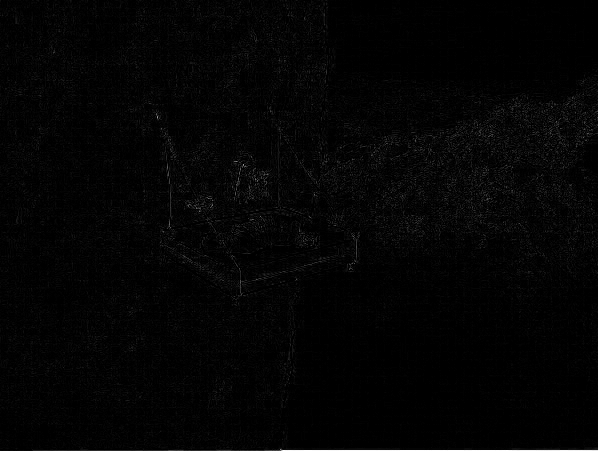
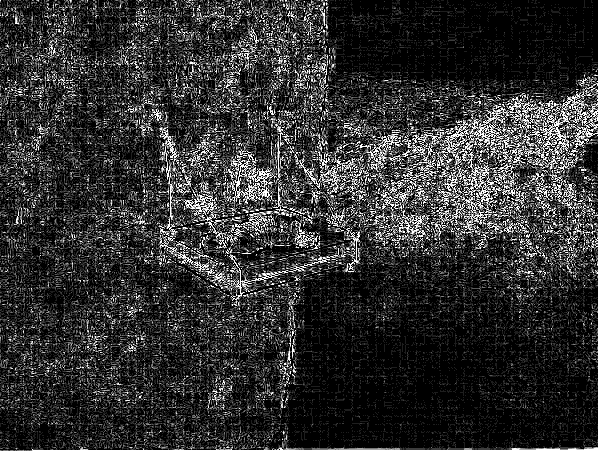
Minor changes to LME method and new ways to estimate the kernel parameters

diff --git a/detection_tools.py b/detection_tools.py
@@ -15,8 +15,10 @@ import imageio
 from numpy.lib.stride_tricks import as_strided
 from scipy.signal import savgol_filter
 from scipy.optimize import curve_fit
-from scipy.special import gamma
+from scipy.special import gamma, digamma, polygamma
 from sklearn.discriminant_analysis import LinearDiscriminantAnalysis
+from scipy.optimize import newton, minimize_scalar
+from scipy.stats import gennorm
 
 def ela_substract(image_path, quality):
     """
@@ -151,30 +153,6 @@ def _get_block_at_pos(gray_image, pos, size):
     right = j + size // 2 + 1
     return gray_image[bottom:top, left:right]
 
-def lme_transform(gray_image, block_size, window_size):
-    """ Perform PCA to get the local minimum eigenvalue at each pixel
-    using the method described by Zhan et al. (2016).
-    """
-    M, N = gray_image.shape
-    offset = (block_size  - 1) // 2   #block size has to be an odd integer
-    lme_array = np.zeros_like(gray_image).astype(np.float64)
-
-    # I couldn't think of a way to avoid traversing the whole image with for
-    # loops. This is likely to be the main bottleneck of the implementation.
-    for i in range(offset, M - offset):
-        for j in range(offset, N - offset):
-            block = _get_block_at_pos(gray_image, (i, j), block_size)
-            sss = _create_sss_matrix(block, window_size)
-            var = _covariance_matrix(sss)
-            lme_array[i][j] = _get_minimum_eigenvalue(var)
-
-
-    return lme_array
-
-# =============================================================================
-# Blur type inconsistency detection (Bahrami et al. 2015)
-# =============================================================================
-
 def _partition_input(gray_image, block_size, d):
     """ Divide input image in LxL blocks with d overlapping pixels.
     Return: an array view of all blocks.
@@ -185,6 +163,48 @@ def _partition_input(gray_image, block_size, d):
     strides = tuple(np.array(gray_image.strides) * offset) + gray_image.strides
     return as_strided(gray_image, vshape, strides)
 
+def lme_transform(gray_image, block_size, window_size):
+    """ Perform PCA to get the local minimum eigenvalue at each pixel
+    using the method described by Zhan et al. (2016).
+    """
+#    M, N = gray_image.shape
+#    offset = (block_size  - 1) // 2   #block size has to be an odd integer
+#    lme_array = np.zeros_like(gray_image).astype(np.float64)
+
+    # I couldn't think of a way to avoid traversing the whole image with for
+    # loops. This is likely to be the main bottleneck of the implementation.
+#    for i in range(offset, M - offset):
+#        for j in range(offset, N - offset):
+#            block = _get_block_at_pos(gray_image, (i, j), block_size)
+#            sss = _create_sss_matrix(block, window_size)
+#            var = _covariance_matrix(sss)
+#            lme_array[i][j] = _get_minimum_eigenvalue(var)
+
+    lme_array = np.zeros_like(gray_image).astype(np.float64)
+    M, N = gray_image.shape
+    vshape= (M, N, block_size, block_size)
+    strides = gray_image.strides * 2
+    view = as_strided(gray_image, vshape, strides)
+    for i in range(M):
+        for j in range(N):
+            sss = _create_sss_matrix(view[i,j], window_size)
+            var = _covariance_matrix(sss)
+            lme_array[i,j] = _get_minimum_eigenvalue(var)
+#    view = _partition_input(gray_image, block_size, 1)
+#    for i in range(view.shape[0]):
+#        for j in range(view.shape[1]):
+#            sss = _create_sss_matrix(view[i,j], window_size)
+#            var = _covariance_matrix(sss)
+#            view[i,j][:,:]= _get_minimum_eigenvalue(var)
+#    return gray_image
+    return lme_array
+
+# =============================================================================
+# Blur type inconsistency detection (Bahrami et al. 2015)
+# =============================================================================
+
+
+
 def _estimate_kernel(block):
     """ Uses Maximum A Posteriori bayesian inference to estimate the blur
     kernel of a given patch of image.
@@ -192,11 +212,32 @@ def _estimate_kernel(block):
     """
     pass
 
-def _ggd(x, mu, sigma, beta):
-    return (beta / (2 * sigma + gamma(1./beta))) * \
+def _ggd(x, amp, mu, sigma, beta):
+    return amp * (beta / (2 * sigma + gamma(1./beta))) * \
     np.exp(-(np.abs(x - mu)/sigma) ** beta)
 
-def _estimate_parameters(kernel, method='fit'):
+def _func(beta, hist):
+    mu = hist.mean()
+    diff = np.abs(hist - mu)
+    g = 1 + digamma(1/beta) / beta \
+    - np.sum(np.log(diff) * diff ** beta) / np.sum(diff ** beta) \
+    + np.log((beta / hist.size) * np.sum(diff ** beta)) / beta
+    return g
+
+def _func_prime(beta, hist):
+    mu = hist.mean()
+    diff = np.abs(hist - mu)
+    g_prime = - digamma(1 / beta) / beta \
+    - polygamma(3, 1 / beta) / (beta ** 2) \
+    - polygamma(3, 1 / beta) / (beta ** 3) \
+    + 1 / (beta ** 2) \
+    - np.sum((np.log(diff) ** 2) * diff ** beta) / np.sum(diff ** beta) \
+    + (np.sum(np.log(diff) * diff ** beta) / np.sum(diff ** beta)) ** 2 \
+    + np.sum(np.log(diff) * diff ** beta) / (beta * np.sum(diff ** beta)) \
+    - np.log((beta / hist.size) * np.sum(diff ** beta)) / (beta ** 2)
+    return g_prime
+
+def _estimate_parameters(kernel, method='fit2'):
     """ Estimates dispersion (\sigma) and shape parameter (\beta) of the
     gray value normalized histogram of the kernel. The model is a generalized
     gaussian distribution.
@@ -204,17 +245,33 @@ def _estimate_parameters(kernel, method='fit'):
     estimator formula from Wikipedia (article on GDD).
     Return: Feature vector [sigma, beta].
     """
-    # The kernel is assumed to be a grayscale 8bit integer array
-    bins = int(kernel.max())
+    bins = 256 #int(kernel.max())
     kernel = kernel.astype(np.float) / np.sum(kernel)
     hist, _ = np.histogram(kernel.ravel(), bins)
-    keep, _ = np.where(hist > 0)
+    keep = np.where(hist > 0)[0]
     hist = hist[keep]       # reject zero values
     hist = hist / hist.sum() # normalize
     x_axis = np.linspace(0., kernel.max(), hist.size)
-    filtered = savgol_filter(hist, 11, 1)   # remove noise
-    popt, pcov = curve_fit(_ggd, x_axis, filtered, p0=[1, 5e-4, 5e-4, 1])
-    return popt[2:]
+
+    if method == 'fit':
+        filtered = savgol_filter(hist, 11, 1)   # remove noise
+        popt, pcov = curve_fit(_ggd, x_axis, filtered, p0=[1, 5e-4, 5e-4, 1])
+        return popt[2:], hist, filtered, x_axis
+
+    elif method == 'fit2':
+        beta, loc, sigma = gennorm.fit(hist)
+        return np.array([sigma, beta])
+
+    elif method == 'mle':
+        m1 = np.average(np.abs(hist)) # compute first moment
+        m2 = np.average(np.abs(hist) ** 2) # compute second moment
+        beta0 = m1/np.sqrt(m2)
+        beta = newton(_func, x0=beta0, args=(hist,), fprime=_func_prime,
+                      maxiter=9999)
+        stat = lambda mu: np.sum(np.abs(hist - mu) ** beta)
+        mean = minimize_scalar(stat).x
+        sigma = ((beta / hist.size) * np.sum(np.abs(hist - mean) ** beta)) ** (1/beta)
+        return np.array([sigma, beta])
 
 def _generate_dataset():
     scatter_plot = imageio.imread('rasterize_dataset.png')
@@ -290,11 +347,10 @@ def detect_blur_inconsistency(image):
 
 #if __name__ == "__main__":
 #    img = imageio.imread('../clase02oct/cameraman.png')
-##    img = resize(img, (284, 378))
-#    lme = lme_transform(img, 17, 9)
-#    lme = np.abs(lme)
-#    exp = np.floor(-np.log10(lme.max()))
-#    lme *= 10 ** exp
+#    lme = lme_transform(img, 5, 3)
+###    lme = np.abs(lme)
+###    exp = np.floor(-np.log10(lme.max()))
+###    lme *= 10 ** exp
 #    plt.imshow(lme)
 
 
